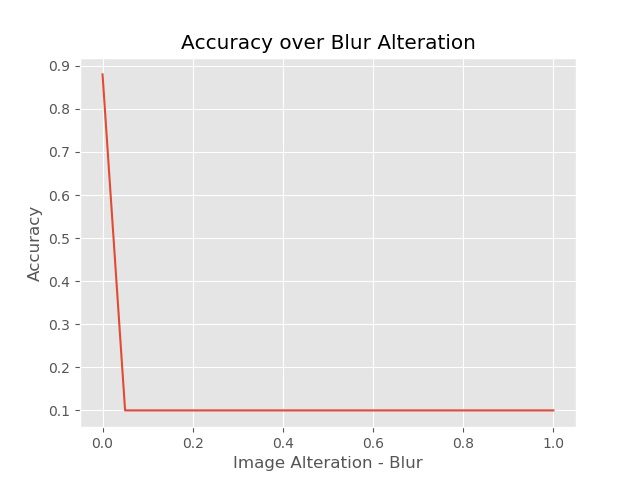
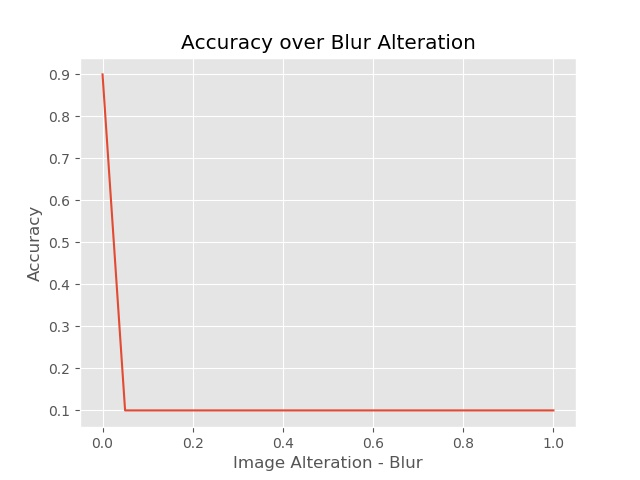
MNIST adapted for the last modifications

diff --git a/code/roby_Use/mnist/mnist_roby.py b/code/roby_Use/mnist/mnist_roby.py
@@ -20,7 +20,7 @@ import numpy as np   # type: ignore
 from roby.Alterations import Compression, GaussianNoise,\
     VerticalTranslation, HorizontalTranslation, Blur, Brightness, Zoom,\
     Alteration
-from roby.RobustnessCNN import robustness_test,\
+from roby.RobustnessNN import robustness_test,\
     display_robustness_results, classification
 
 
@@ -73,9 +73,9 @@ if __name__ == '__main__':
     classes = ["0", "1", "2", "3", "4", "5", "6", "7", "8", "9"]
 
     # load the environment
-    environment = EnvironmentRTest(model, X_test[:100], classes,
+    environment = EnvironmentRTest(model, X_test[:200], classes,
                                    preprocess_f=pre_processing,
-                                   label_list=y_test[:100])
+                                   label_list=y_test[:200])
 
     # get the standard behavior of the net
     accuracy = classification(environment)
